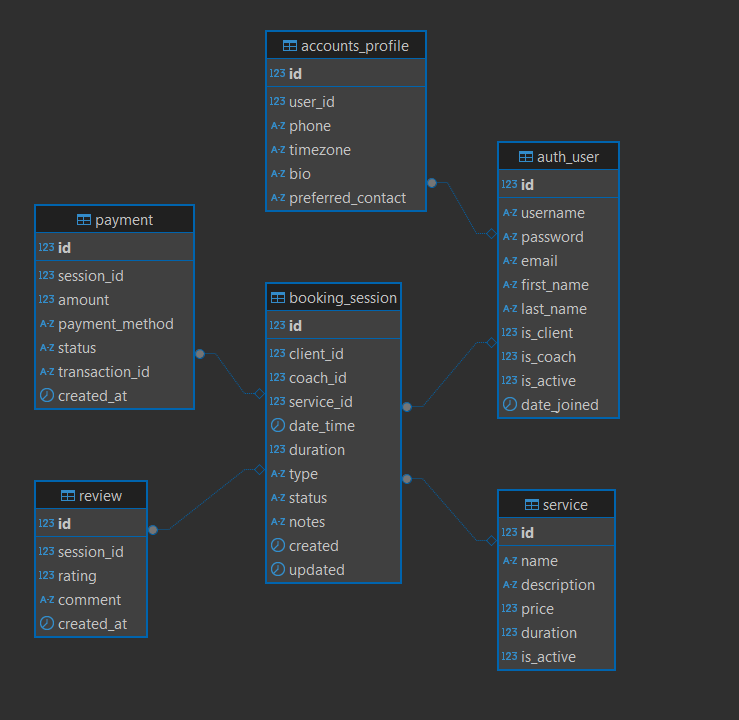
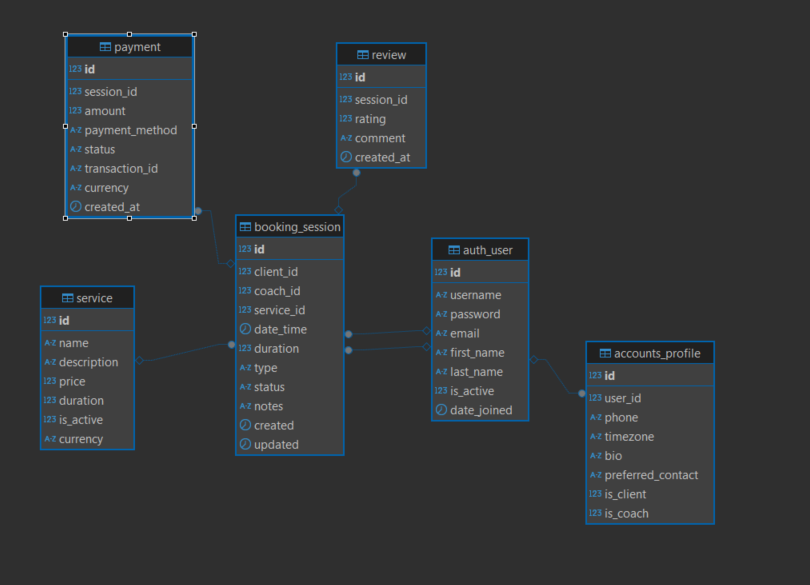
feat: úprava struktury databáze a modelů

Changed region(s): [[0.0311, 0.0308, 0.9026, 0.9538], [0.3424, 0.0308, 0.5913, 0.3077], [0.6536, 0.6154, 0.6847, 0.6462]]

diff --git a/core/models.py b/core/models.py
@@ -1,0 +1,110 @@
+from django.db import models
+from django.contrib.auth.models import AbstractUser
+from django.utils import timezone
+
+class ServiceType(models.TextChoices):
+    """Enum for service types"""
+    TYPE1 = 'TYPE1', 'Type 1'
+    TYPE2 = 'TYPE2', 'Type 2'
+    # Add more types as needed
+
+class PaymentMethod(models.TextChoices):
+    """Enum for payment methods"""
+    PAYPAL = 'PAYPAL', 'PayPal'
+    VENMO = 'VENMO', 'Venmo'
+    CASH = 'CASH', 'Cash'
+
+class SessionStatus(models.TextChoices):
+    """Enum for session status"""
+    SCHEDULED = 'SCHEDULED', 'Scheduled'
+    COMPLETED = 'COMPLETED', 'Completed'
+    CANCELLED = 'CANCELLED', 'Cancelled'
+    PENDING = 'PENDING', 'Pending'
+
+class SessionType(models.TextChoices):
+    """Enum for session type"""
+    PERSONAL = 'PERSONAL', 'Personal'
+    ONLINE = 'ONLINE', 'Online'
+
+class User(AbstractUser):
+    """Extended User model"""
+    is_client = models.BooleanField(default=False)
+    is_coach = models.BooleanField(default=False)
+    date_joined = models.DateTimeField(default=timezone.now)
+
+class Profile(models.Model):
+    """User profile model"""
+    user = models.OneToOneField(User, on_delete=models.CASCADE)
+    phone = models.CharField(max_length=20)
+    timezone = models.CharField(max_length=50)
+    bio = models.TextField()
+    preferred_contact = models.CharField(max_length=20)
+
+    def __str__(self):
+        return f"{self.user.username}'s profile"
+
+class Service(models.Model):
+    """Service model"""
+    name = models.CharField(max_length=100)
+    description = models.TextField()
+    price = models.DecimalField(max_digits=10, decimal_places=2)
+    duration = models.IntegerField()  # in minutes
+    is_active = models.BooleanField(default=True)
+    service_type = models.CharField(
+        max_length=20,
+        choices=ServiceType.choices,
+        default=ServiceType.TYPE1
+    )
+
+    def __str__(self):
+        return self.name
+
+class Session(models.Model):
+    """Session model"""
+    client = models.ForeignKey(User, on_delete=models.CASCADE, related_name='client_sessions')
+    coach = models.ForeignKey(User, on_delete=models.CASCADE, related_name='coach_sessions')
+    service = models.ForeignKey(Service, on_delete=models.CASCADE)
+    date_time = models.DateTimeField()
+    duration = models.IntegerField()  # in minutes
+    type = models.CharField(
+        max_length=20,
+        choices=SessionType.choices,
+        default=SessionType.PERSONAL
+    )
+    status = models.CharField(
+        max_length=20,
+        choices=SessionStatus.choices,
+        default=SessionStatus.PENDING
+    )
+    notes = models.TextField(blank=True)
+    created = models.DateTimeField(auto_now_add=True)
+    updated = models.DateTimeField(auto_now=True)
+
+    def __str__(self):
+        return f"Session: {self.client.username} with {self.coach.username} on {self.date_time}"
+
+class Payment(models.Model):
+    """Payment model"""
+    session = models.ForeignKey(Session, on_delete=models.CASCADE)
+    amount = models.DecimalField(max_digits=10, decimal_places=2)
+    payment_method = models.CharField(
+        max_length=50,
+        choices=PaymentMethod.choices,
+        default=PaymentMethod.PAYPAL
+    )
+    status = models.CharField(max_length=20)
+    transaction_id = models.CharField(max_length=100)
+    created_at = models.DateTimeField(auto_now_add=True)
+
+    def __str__(self):
+        return f"Payment: {self.amount} for session {self.session.id}"
+
+class Review(models.Model):
+    """Review model"""
+    session = models.ForeignKey(Session, on_delete=models.CASCADE)
+    rating = models.IntegerField()
+    comment = models.TextField()
+    created_at = models.DateTimeField(auto_now_add=True)
+
+    def __str__(self):
+        return f"Review for session {self.session.id}: {self.rating}/5" 

diff --git a/README.md b/README.md
@@ -54,8 +54,6 @@ A web application for coaching and psychological counseling.
   - [ ] email (varchar[254])
   - [ ] first_name (varchar[150])
   - [ ] last_name (varchar[150])
-  - [ ] is_client (bool)
-  - [ ] is_coach (bool)
   - [ ] is_active (bool)
   - [ ] date_joined (datetime)
 
@@ -66,6 +64,8 @@ A web application for coaching and psychological counseling.
   - [ ] timezone (varchar[50])
   - [ ] bio (text)
   - [ ] preferred_contact (varchar[20])
+  - [ ] is_client (bool)
+  - [ ] is_coach (bool)
 
 - [ ] Session
   - [ ] id (Integer, PK)
@@ -74,8 +74,8 @@ A web application for coaching and psychological counseling.
   - [ ] service_id (FK)
   - [ ] date_time (datetime)
   - [ ] duration (integer)
-  - [ ] type (varchar[20])
-  - [ ] status (varchar[20])
+  - [ ] type (enum: 'online', 'osobní')
+  - [ ] status (enum: 'CANCELLED', 'CONFIRMED', 'CHANGED')
   - [ ] notes (text)
   - [ ] created (datetime)
   - [ ] updated (datetime)
@@ -87,20 +87,22 @@ A web application for coaching and psychological counseling.
   - [ ] price (decimal)
   - [ ] duration (integer)
   - [ ] is_active (bool)
+  - [ ] currency (varchar[100])
 
 - [ ] Payment
   - [ ] id (Integer, PK)
   - [ ] session_id (FK)
   - [ ] amount (decimal)
-  - [ ] payment_method (varchar[50])
+  - [ ] payment_method (enum: 'cash', 'paypal', 'Venmo')
   - [ ] status (varchar[20])
   - [ ] transaction_id (varchar[100])
+  - [ ] currency (varchar[100])
   - [ ] created_at (datetime)
 
 - [ ] Review
   - [ ] id (Integer, PK)
   - [ ] session_id (FK)
-  - [ ] rating (integer)
+  - [ ] rating (integer, 1-5)
   - [ ] comment (text)
   - [ ] created_at (datetime)
 
